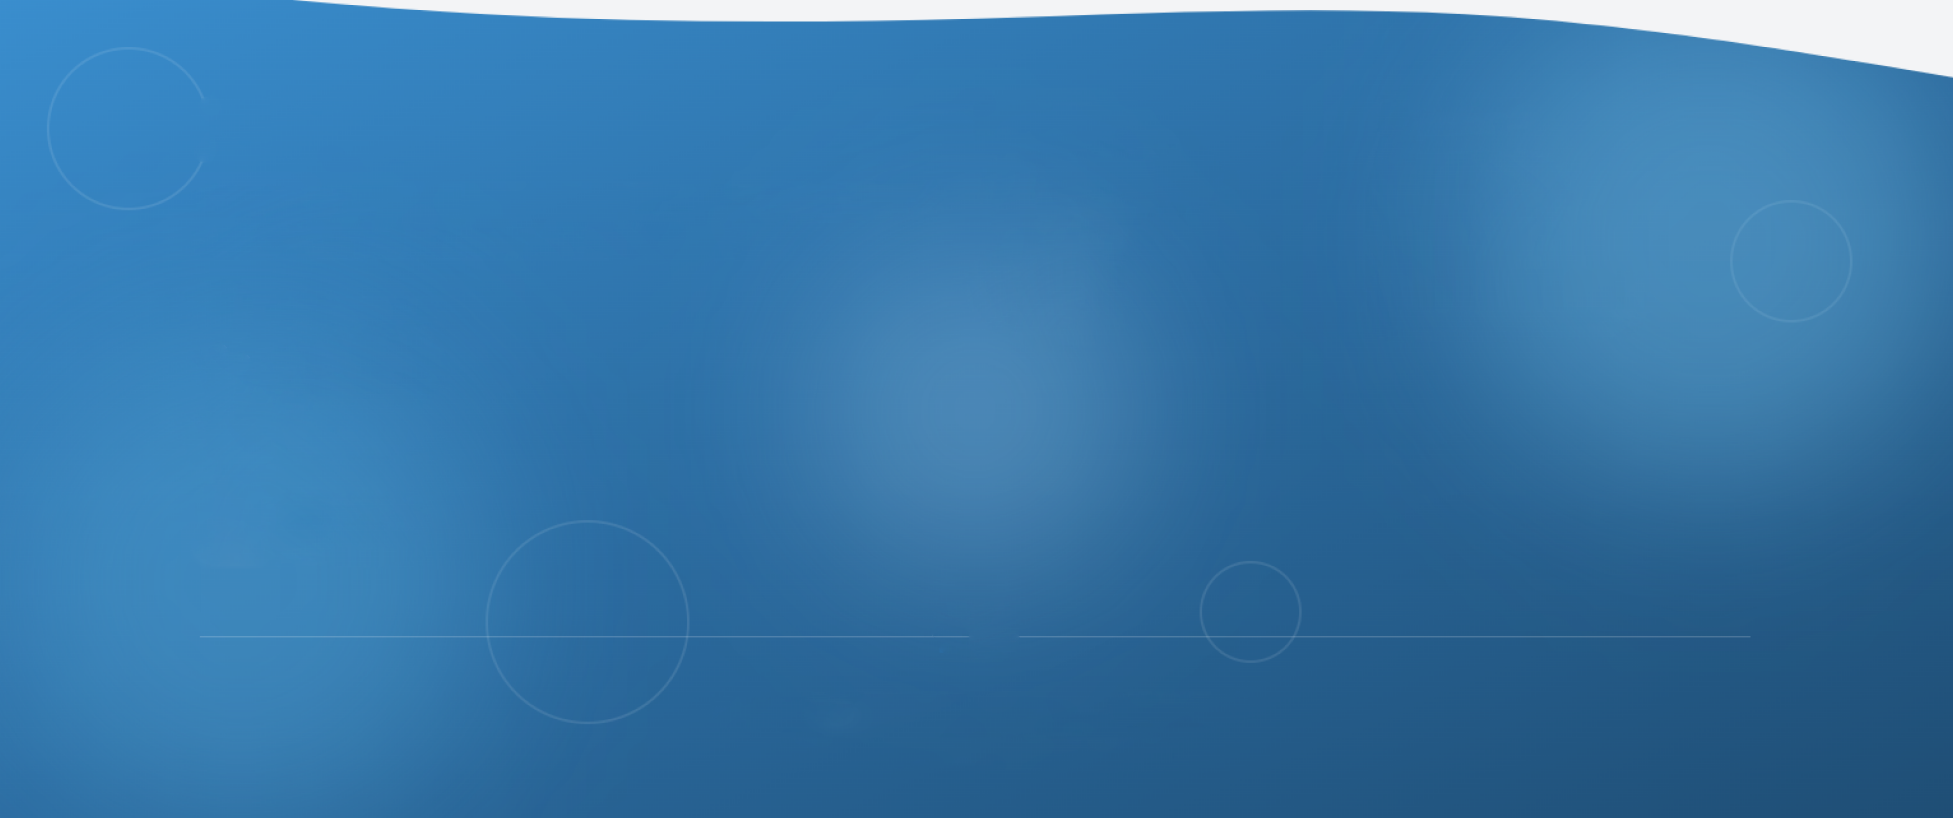
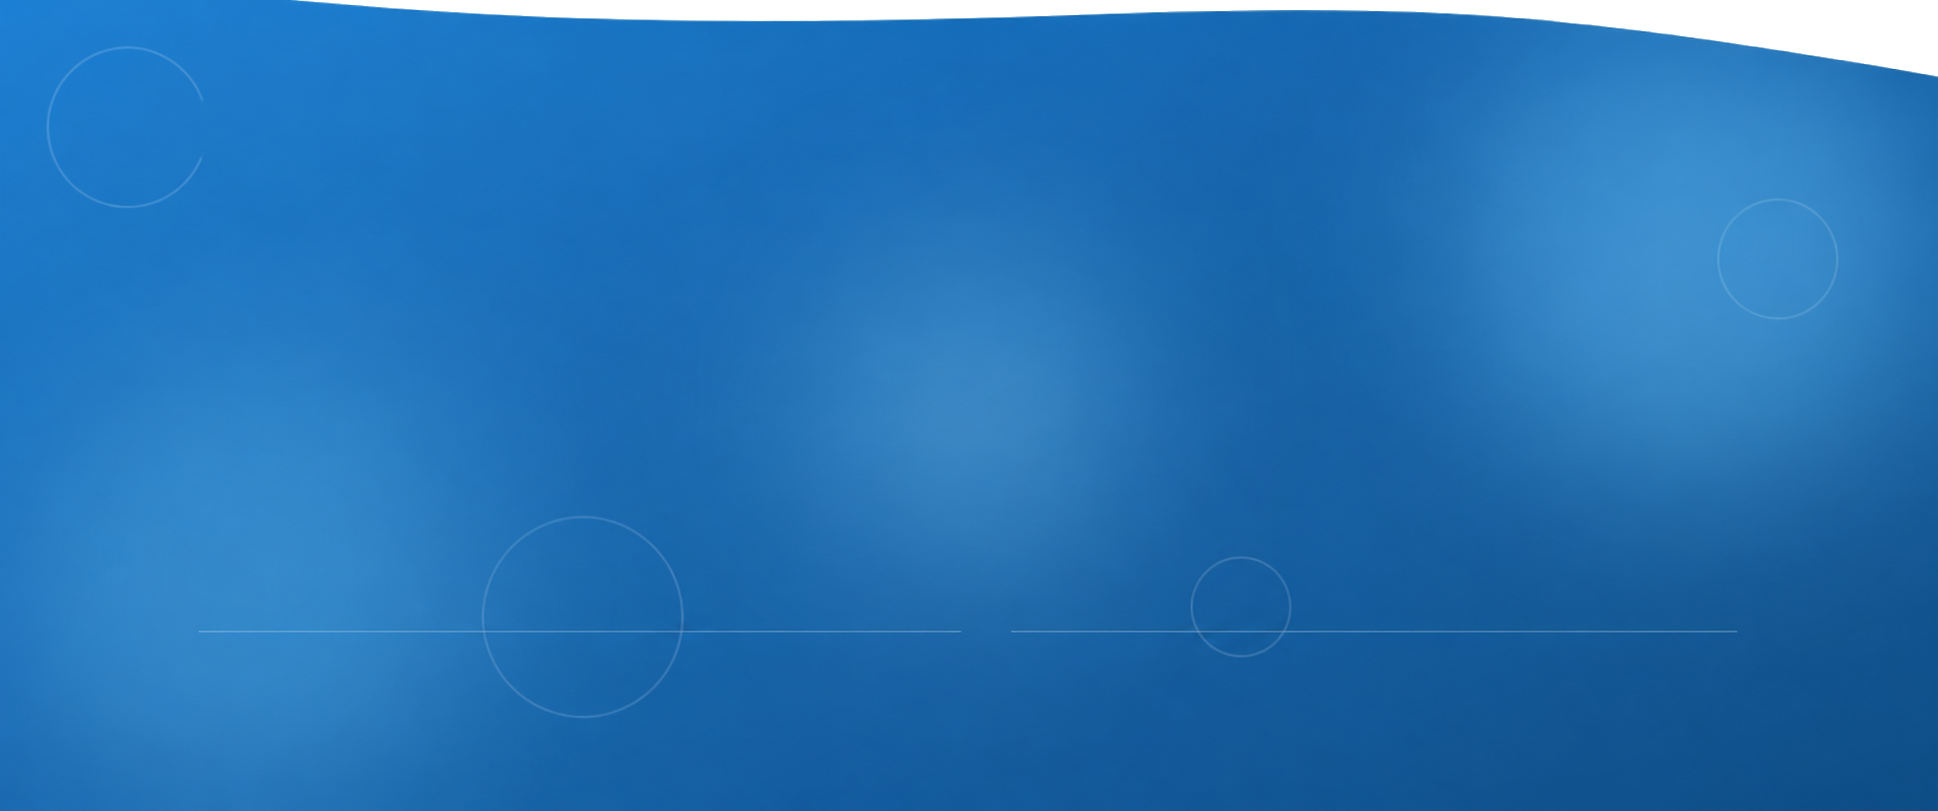
Pequeñas mejoras en about-us

Changed region(s): [[0.0, 0.0, 0.774, 0.4316], [0.9598, 0.0617, 0.9907, 0.0925], [0.4644, 0.185, 0.4954, 0.2158]]

diff --git a/css/about-us-style.css b/css/about-us-style.css
@@ -40,54 +40,138 @@ nav {
   display: flex;
   align-items: center;
   justify-content: space-between;
-  padding: 0 56px;
-  height: 68px;
-  background: var(--white);
-  border-bottom: 1px solid var(--border);
+  padding: 0 48px;
+  height: 72px;
+  /* Fondo gris cálido con textura floral encima */
+  background-color: #D6D0C8;
+  background-image: url("../img/antiguo_patron_.png");
+  background-repeat: repeat;
+  background-size: 420px auto;
+  background-position: center;
   position: sticky;
   top: 0;
   z-index: 200;
+  border-bottom: none;
+  box-shadow: 0 2px 12px rgba(0,0,0,.10);
 }
 
+/* Capa de color semitransparente sobre la textura para suavizarla */
+nav::before {
+  content: '';
+  position: absolute;
+  inset: 0;
+  background: rgba(214, 208, 200, 0.72);
+  pointer-events: none;
+  z-index: 0;
+}
+
+/* Todo el contenido del nav por encima del ::before */
+nav > * { position: relative; z-index: 1; }
+
+/* ── LOGO BRILLAMUR estilizado ── */
 .nav-logo {
   display: flex;
   align-items: center;
-  gap: 8px;
-  font-weight: 700;
-  font-size: 1.05rem;
-  color: var(--text-dark);
+  gap: 0;
   text-decoration: none;
+  line-height: 1;
+  /* Tipografía grande y bold como en la imagen */
+  font-size: 1.85rem;
+  font-weight: 800;
+  letter-spacing: -0.5px;
+  font-style: italic;
 }
-.nav-logo svg { color: var(--blue); }
 
+/* "BRILLA" – gris oscuro/blanco con sombra */
+.nav-logo .logo-part-1 {
+  color: #f0ede8;
+  text-shadow:
+    1px 1px 0 #8a8278,
+    2px 2px 0 #7a7268,
+    -1px -1px 2px rgba(0,0,0,.25);
+  font-style: italic;
+}
+
+/* "MUR" – azul brillante */
+.nav-logo .logo-part-2 {
+  color: var(--blue);
+  text-shadow:
+    1px 1px 0 #1a5cbf,
+    2px 2px 0 #1050a8;
+  font-style: italic;
+}
+
+/* Ícono pequeño delante del logo */
+.nav-logo .logo-icon {
+  width: 28px;
+  height: 28px;
+  margin-right: 6px;
+  color: var(--blue);
+  flex-shrink: 0;
+  filter: drop-shadow(1px 1px 1px rgba(0,0,0,.2));
+}
+
+/* ── LINKS con estilo pill ── */
 .nav-links {
   display: flex;
-  gap: 28px;
+  gap: 10px;
   list-style: none;
 }
+
 .nav-links a {
   text-decoration: none;
-  color: var(--text-mid);
-  font-size: 0.875rem;
-  font-weight: 500;
-  transition: color .2s;
+  color: #3a3530;
+  font-size: 0.82rem;
+  font-weight: 600;
+  display: flex;
+  align-items: center;
+  gap: 6px;
+  padding: 7px 14px;
+  border-radius: 999px;
+  background: rgba(255,255,255,.45);
+  border: 1px solid rgba(255,255,255,.7);
+  backdrop-filter: blur(4px);
+  transition: background .2s, color .2s, border-color .2s;
+  white-space: nowrap;
 }
-.nav-links a:hover,
-.nav-links a.active { color: var(--blue); }
 
+.nav-links a svg {
+  width: 14px;
+  height: 14px;
+  flex-shrink: 0;
+}
+
+.nav-links a:hover {
+  background: rgba(255,255,255,.75);
+  color: var(--blue);
+  border-color: rgba(59,130,246,.3);
+}
+
+.nav-links a.active {
+  background: rgba(255,255,255,.75);
+  color: var(--blue);
+  border-color: rgba(59,130,246,.4);
+}
+
+/* ── Botón CTA azul ── */
 .btn-nav {
   background: var(--blue);
   color: var(--white);
   border: none;
-  padding: 10px 20px;
-  border-radius: var(--radius-sm);
-  font-weight: 600;
+  padding: 9px 20px;
+  border-radius: 999px;
+  font-weight: 700;
   font-size: 0.85rem;
   cursor: pointer;
   font-family: 'Inter', sans-serif;
-  transition: background .2s;
+  transition: background .2s, transform .15s;
+  white-space: nowrap;
+  box-shadow: 0 2px 8px rgba(37,99,235,.35);
 }
-.btn-nav:hover { background: var(--blue-dark); }
+.btn-nav:hover {
+  background: var(--blue-dark);
+  transform: translateY(-1px);
+}
 
 /* ────────────────────────────────────────
    HERO
@@ -139,14 +223,14 @@ nav {
    STATS
    ──────────────────────────────────────── */
 .stats-section {
-  padding: 40px 56px;
+  padding: 60px 56px;
   background: var(--white);
 }
 
 .stats-grid {
   display: grid;
   grid-template-columns: repeat(4, 1fr);
-  gap: 16px;
+  gap: 30px;
   max-width: 900px;
   margin: 0 auto;
 }
@@ -161,20 +245,35 @@ nav {
   flex-direction: column;
   align-items: center;
   gap: 6px;
+  cursor: pointer;
+  transition: background .25s, border-color .25s, box-shadow .25s;
 }
 
-.stat-card.stat-blue {
+/* Hover Y seleccionado → azul */
+.stat-card:hover,
+.stat-card.selected {
   background: var(--blue);
   border-color: var(--blue);
+  box-shadow: 0 8px 24px rgba(59,130,246,.30);
 }
-.stat-card.stat-blue .stat-icon,
-.stat-card.stat-blue .stat-number { color: var(--white); }
-.stat-card.stat-blue .stat-label  { color: rgba(255,255,255,.75); }
+
+.stat-card:hover .stat-icon,
+.stat-card:hover .stat-number,
+.stat-card.selected .stat-icon,
+.stat-card.selected .stat-number {
+  color: var(--white);
+}
+
+.stat-card:hover .stat-label,
+.stat-card.selected .stat-label {
+  color: rgba(255,255,255,.75);
+}
 
 .stat-icon {
   color: var(--blue);
   display: flex;
   margin-bottom: 4px;
+  transition: color .25s;
 }
 
 .stat-number {
@@ -182,19 +281,21 @@ nav {
   font-weight: 800;
   color: var(--blue);
   line-height: 1;
+  transition: color .25s;
 }
 
 .stat-label {
   font-size: 0.78rem;
   color: var(--text-light);
   font-weight: 500;
+  transition: color .25s;
 }
 
 /* ────────────────────────────────────────
    SHARED SECTION
    ──────────────────────────────────────── */
 .section {
-  padding: 72px 56px;
+  padding: 50px 56px;
 }
 
 .section-title {
@@ -429,25 +530,6 @@ nav {
   transform: scale(1.06);
 }
 
-/* Blue overlay – appears on hover */
-.servicio-overlay {
-  position: absolute;
-  inset: 0;
-  background: rgba(37, 99, 235, 0);
-  backdrop-filter: blur(0px);
-  -webkit-backdrop-filter: blur(0px);
-  transition:
-    background .35s ease,
-    backdrop-filter .35s ease,
-    -webkit-backdrop-filter .35s ease;
-  z-index: 1;
-}
-
-.servicio-card:hover .servicio-overlay {
-  background: rgba(37, 99, 235, 0.42);
-  backdrop-filter: blur(3px);
-  -webkit-backdrop-filter: blur(3px);
-}
 
 /* Text label always visible over dark gradient */
 .servicio-label {

diff --git a/js/about-us.js b/js/about-us.js
@@ -20,6 +20,22 @@ document.addEventListener('DOMContentLoaded', () => {
       // Poner active al clicado
       item.classList.add('active');
     });
+
+    /* ────────────────────────────────────────
+   STAT CARDS
+   Click mantiene azul la última clickada.
+   Hover funciona solo con CSS.
+   ──────────────────────────────────────── */
+const statCards = document.querySelectorAll('.stat-card');
+
+statCards.forEach(card => {
+  card.addEventListener('click', () => {
+    // Quitar selected de todas
+    statCards.forEach(c => c.classList.remove('selected'));
+    // Poner selected en la clickada
+    card.classList.add('selected');
+  });
+});
   });
 
 });